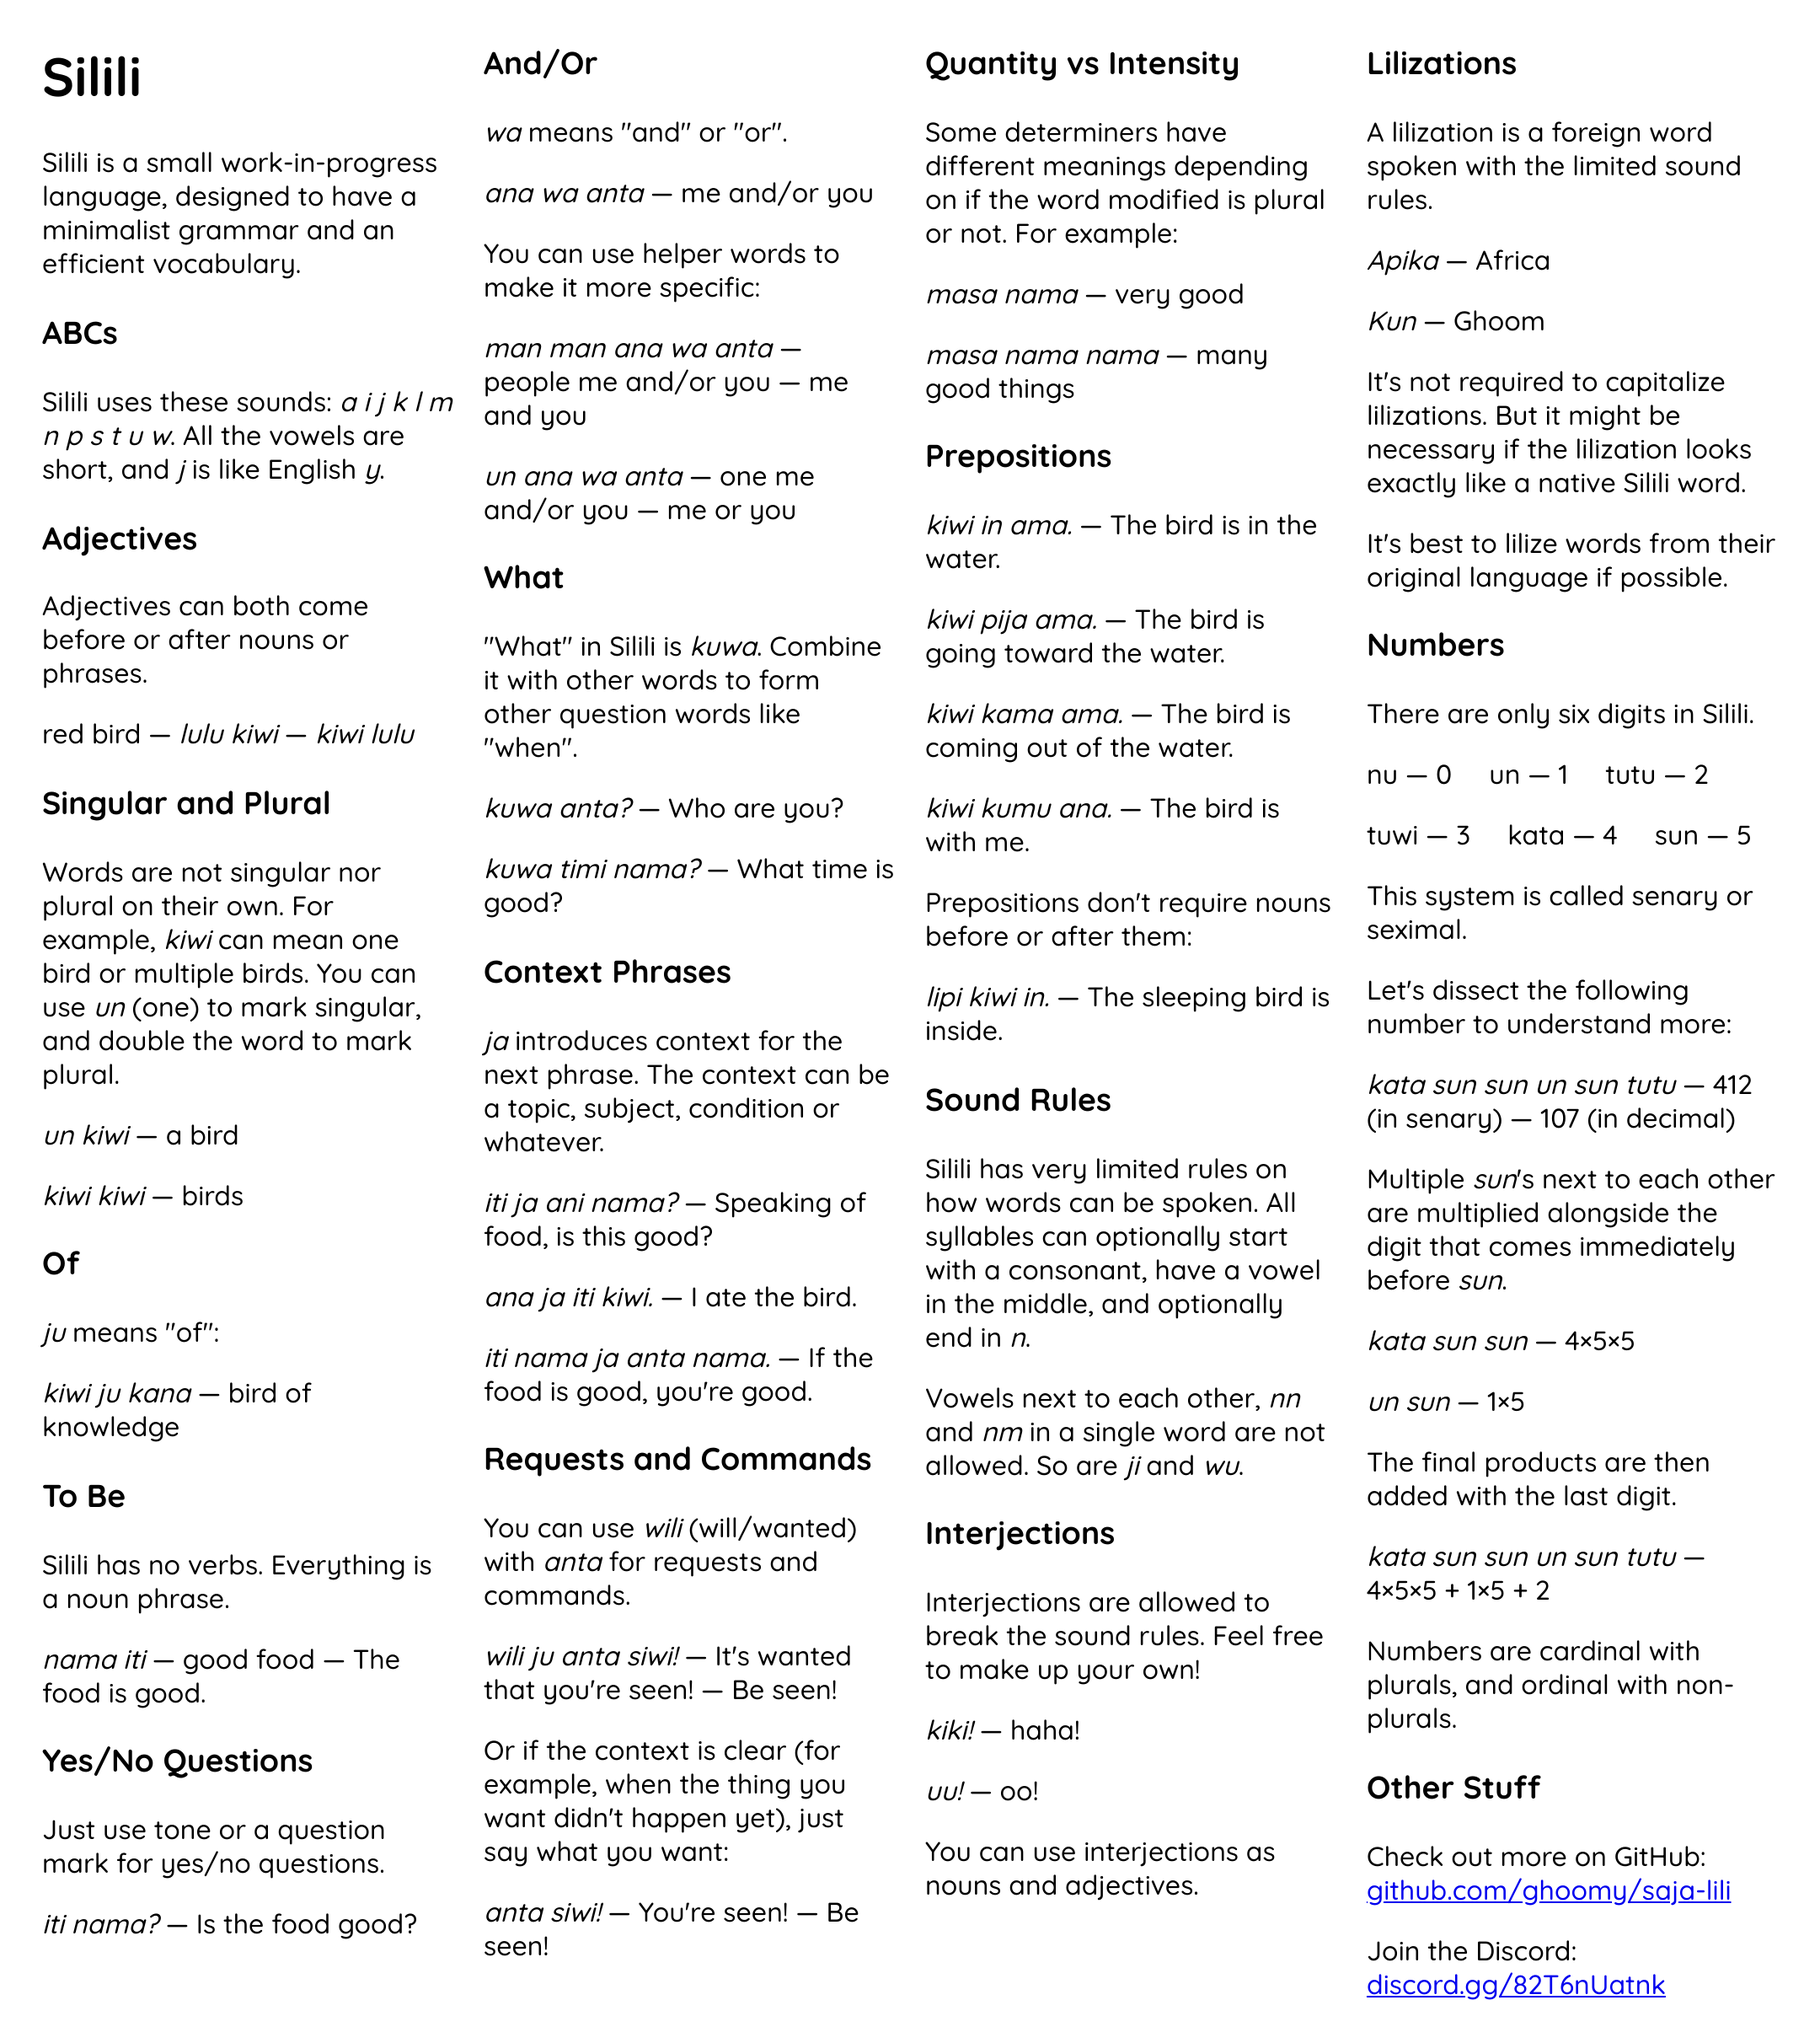
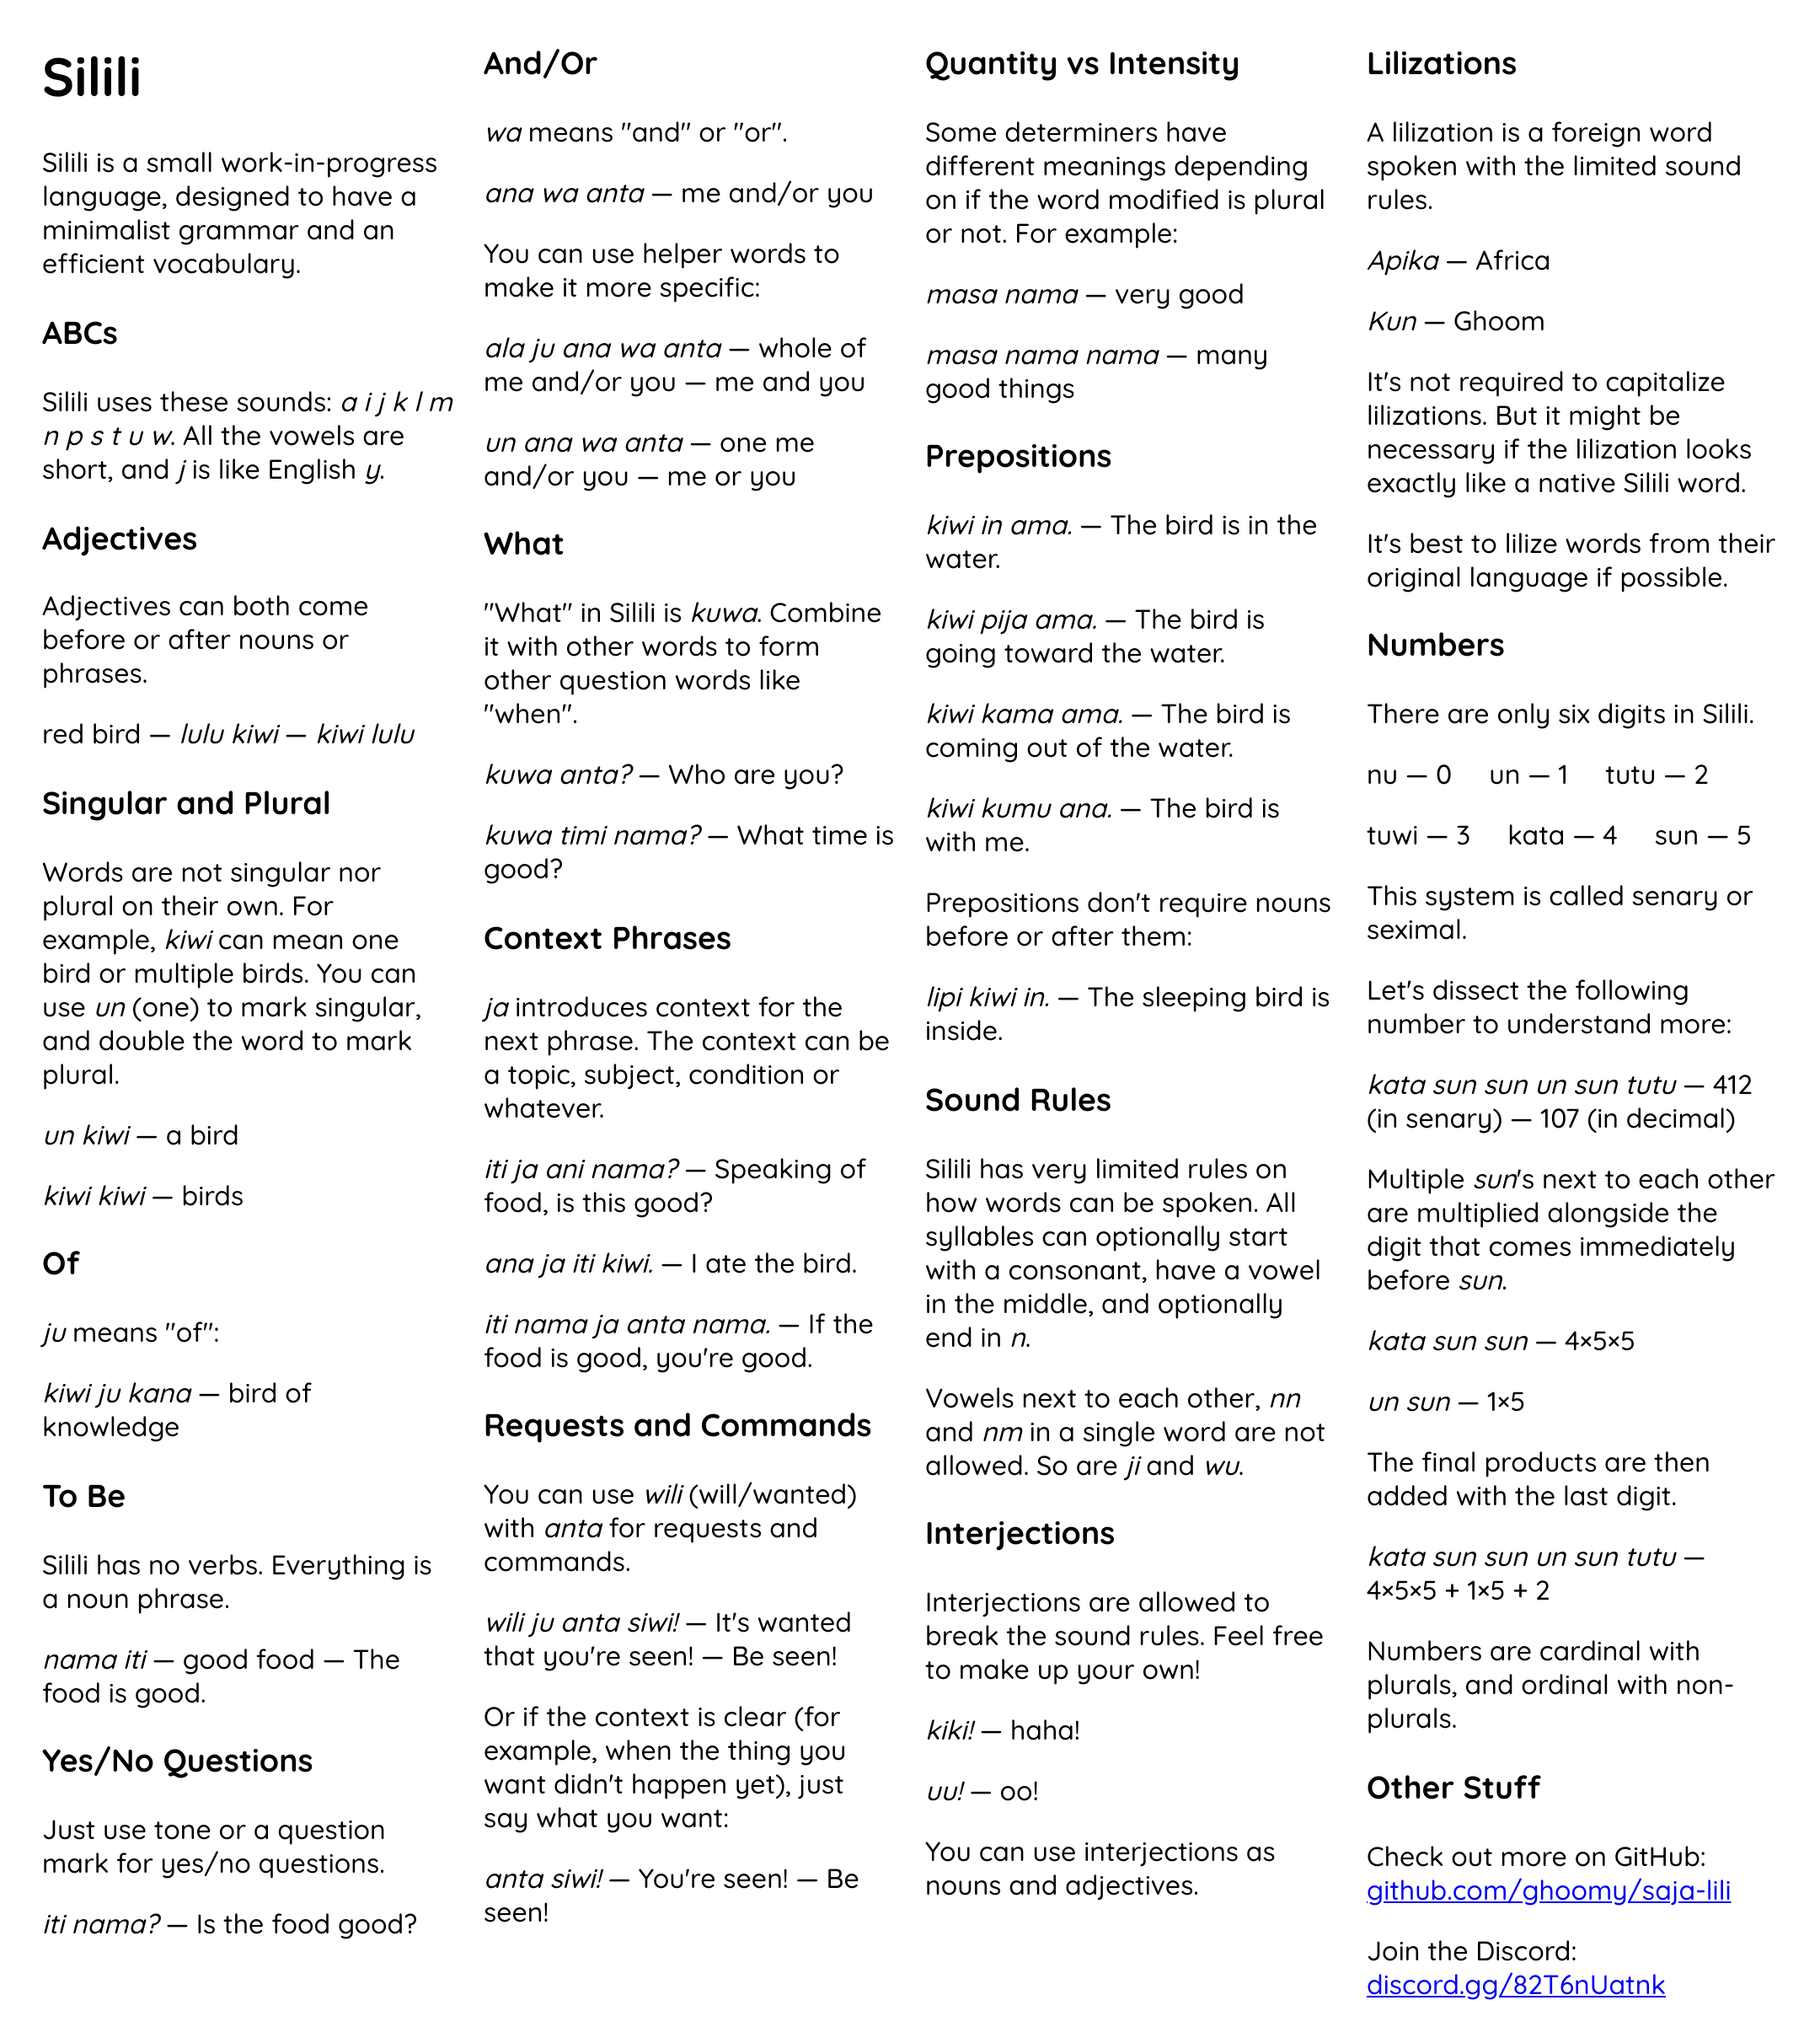
...

Changed region(s): [[0.2481, 0.1547, 0.4963, 0.9592]]

diff --git a/README.md b/README.md
@@ -63,7 +63,7 @@ Just use tone or a question mark for yes/no questions.
 
 You can use helper words to make it more specific:
 
-*man man ana wa anta* — people me and/or you — me and you
+*ala ju ana wa anta* — whole of me and/or you — me and you
 
 *un ana wa anta* — one me and/or you  — me or you
 
